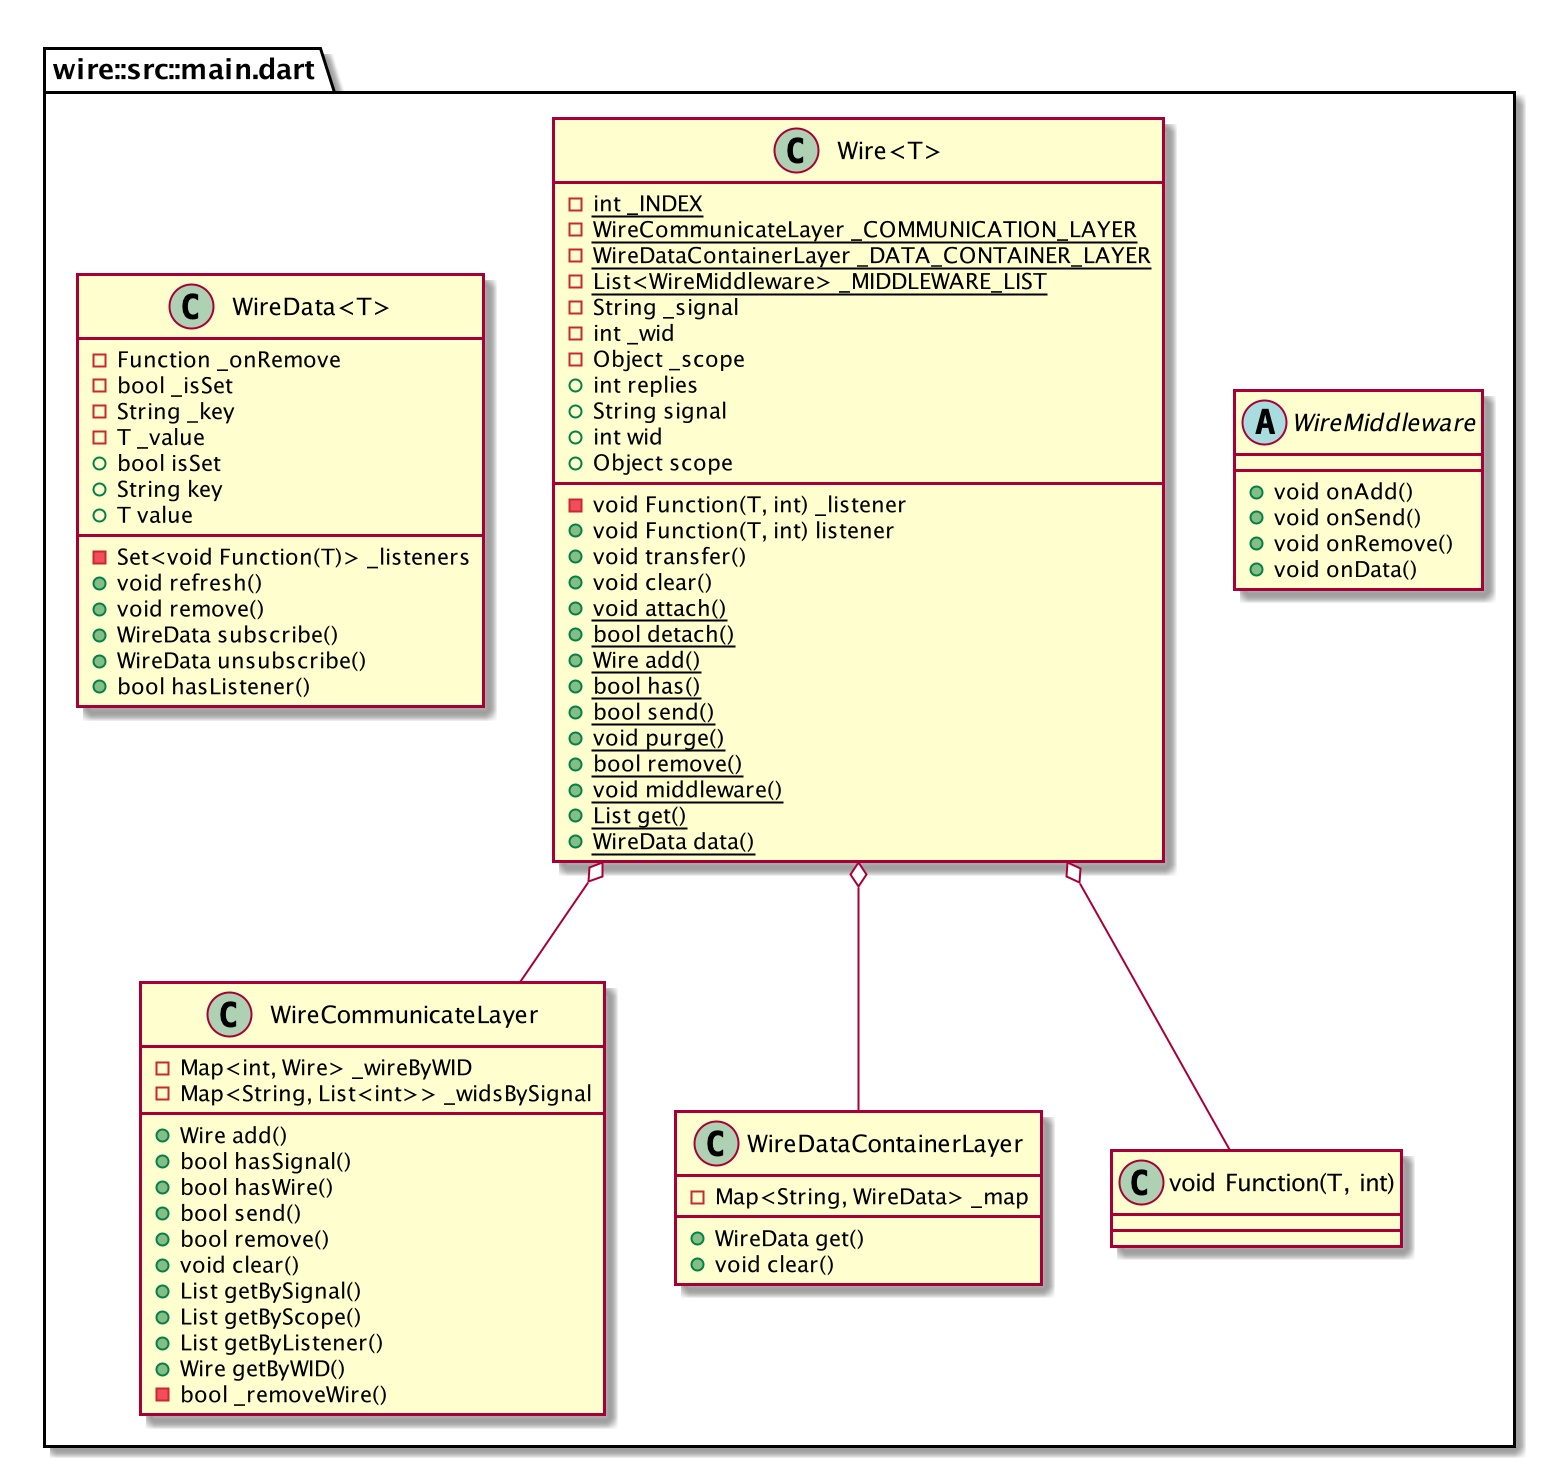
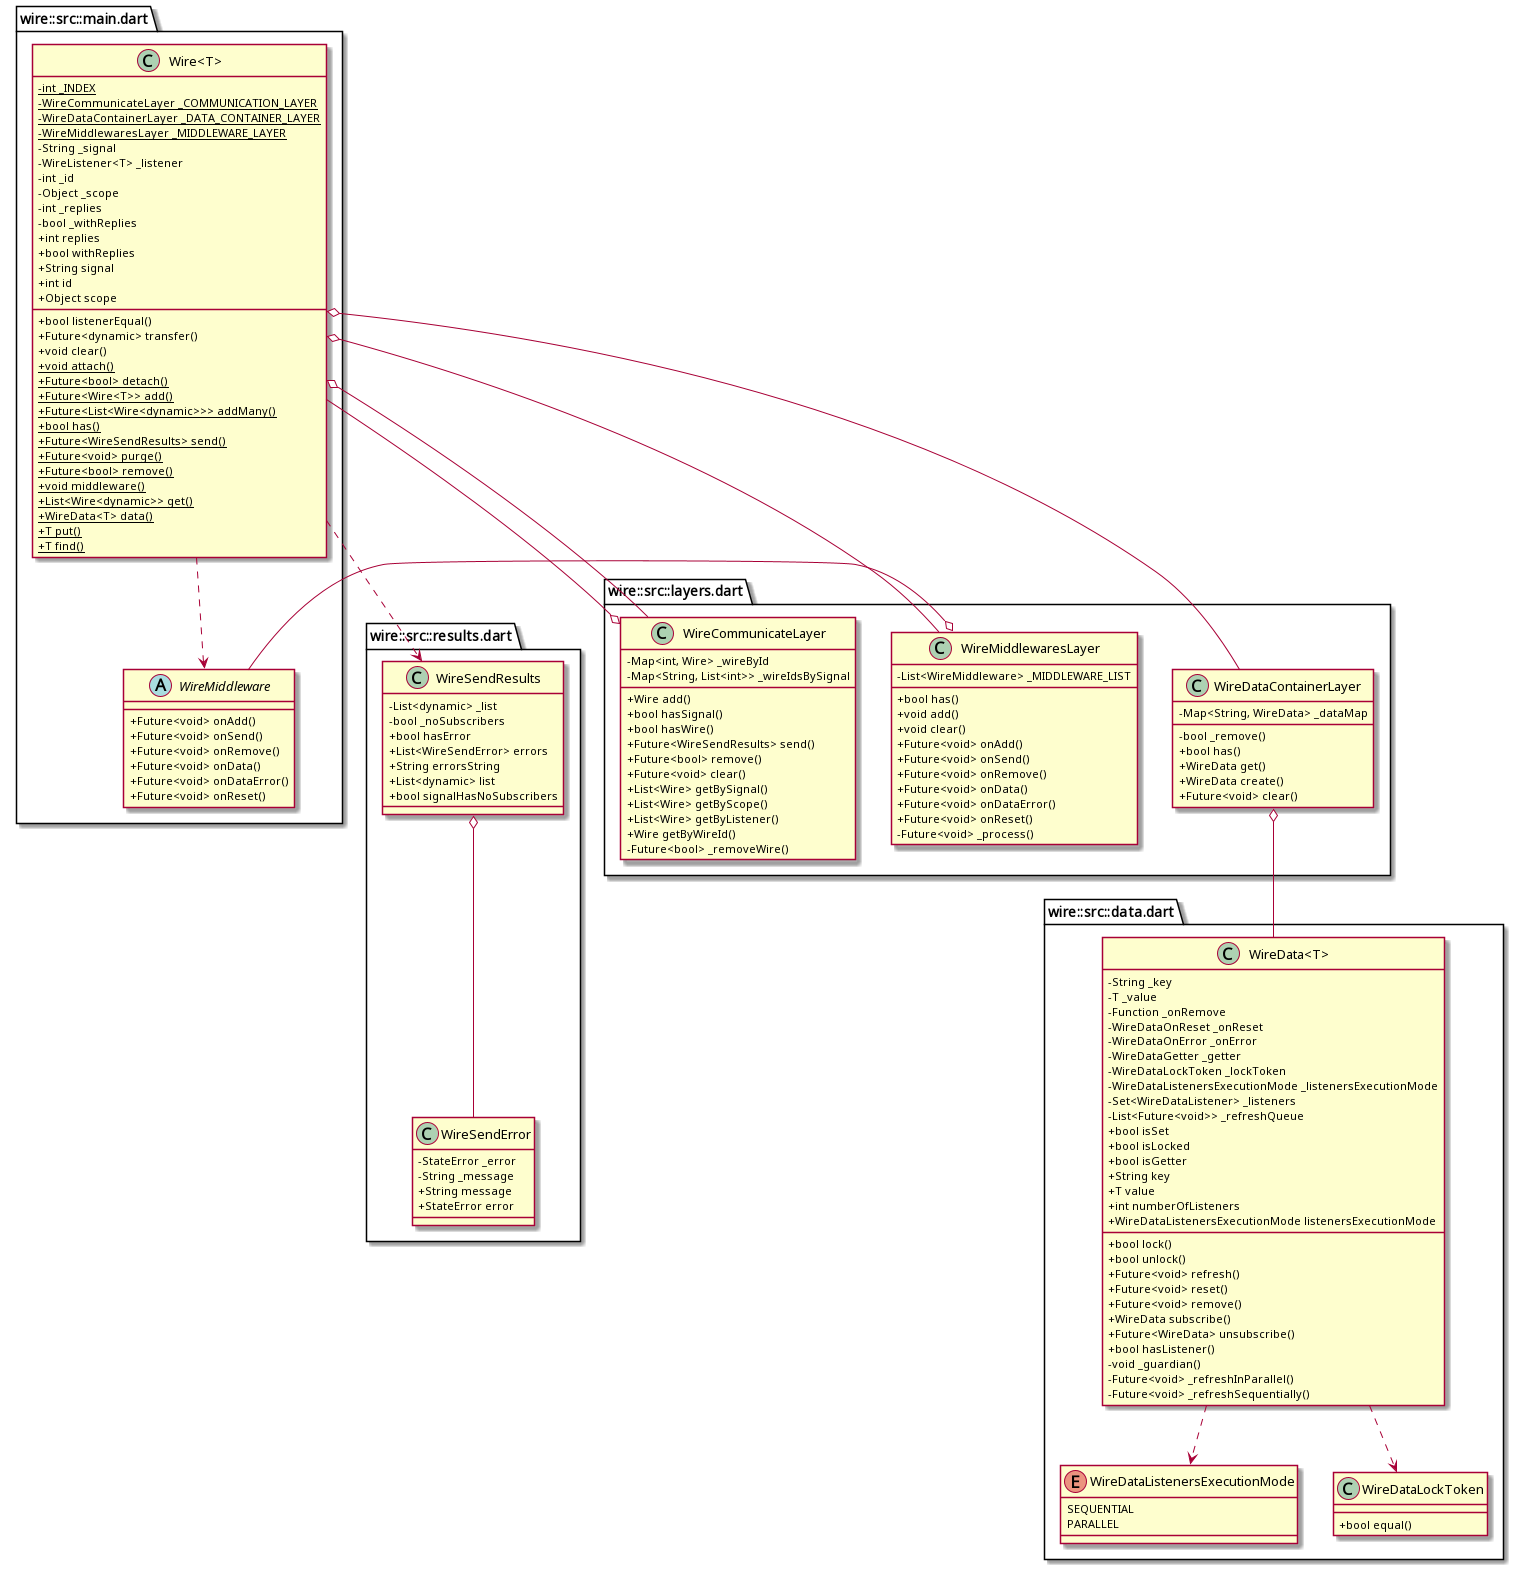
docs: update UML class diagram to match current wire_dart API

diff --git a/README.md b/README.md
@@ -482,7 +482,7 @@ abstract class WireMiddleware {
 
 ![UML](uml/configuration.png)
 
-Generate UML with `dcdg` (PlantUML): `pub global run dcdg -o ./uml/configuration`
+The UML source is `uml/configuration` (PlantUML). To regenerate `uml/configuration.png`, run `GRAPHVIZ_DOT=$(which dot) java -jar uml/plantuml.jar -tpng uml/configuration` (Graphviz is required).
 
 ## Examples
 
